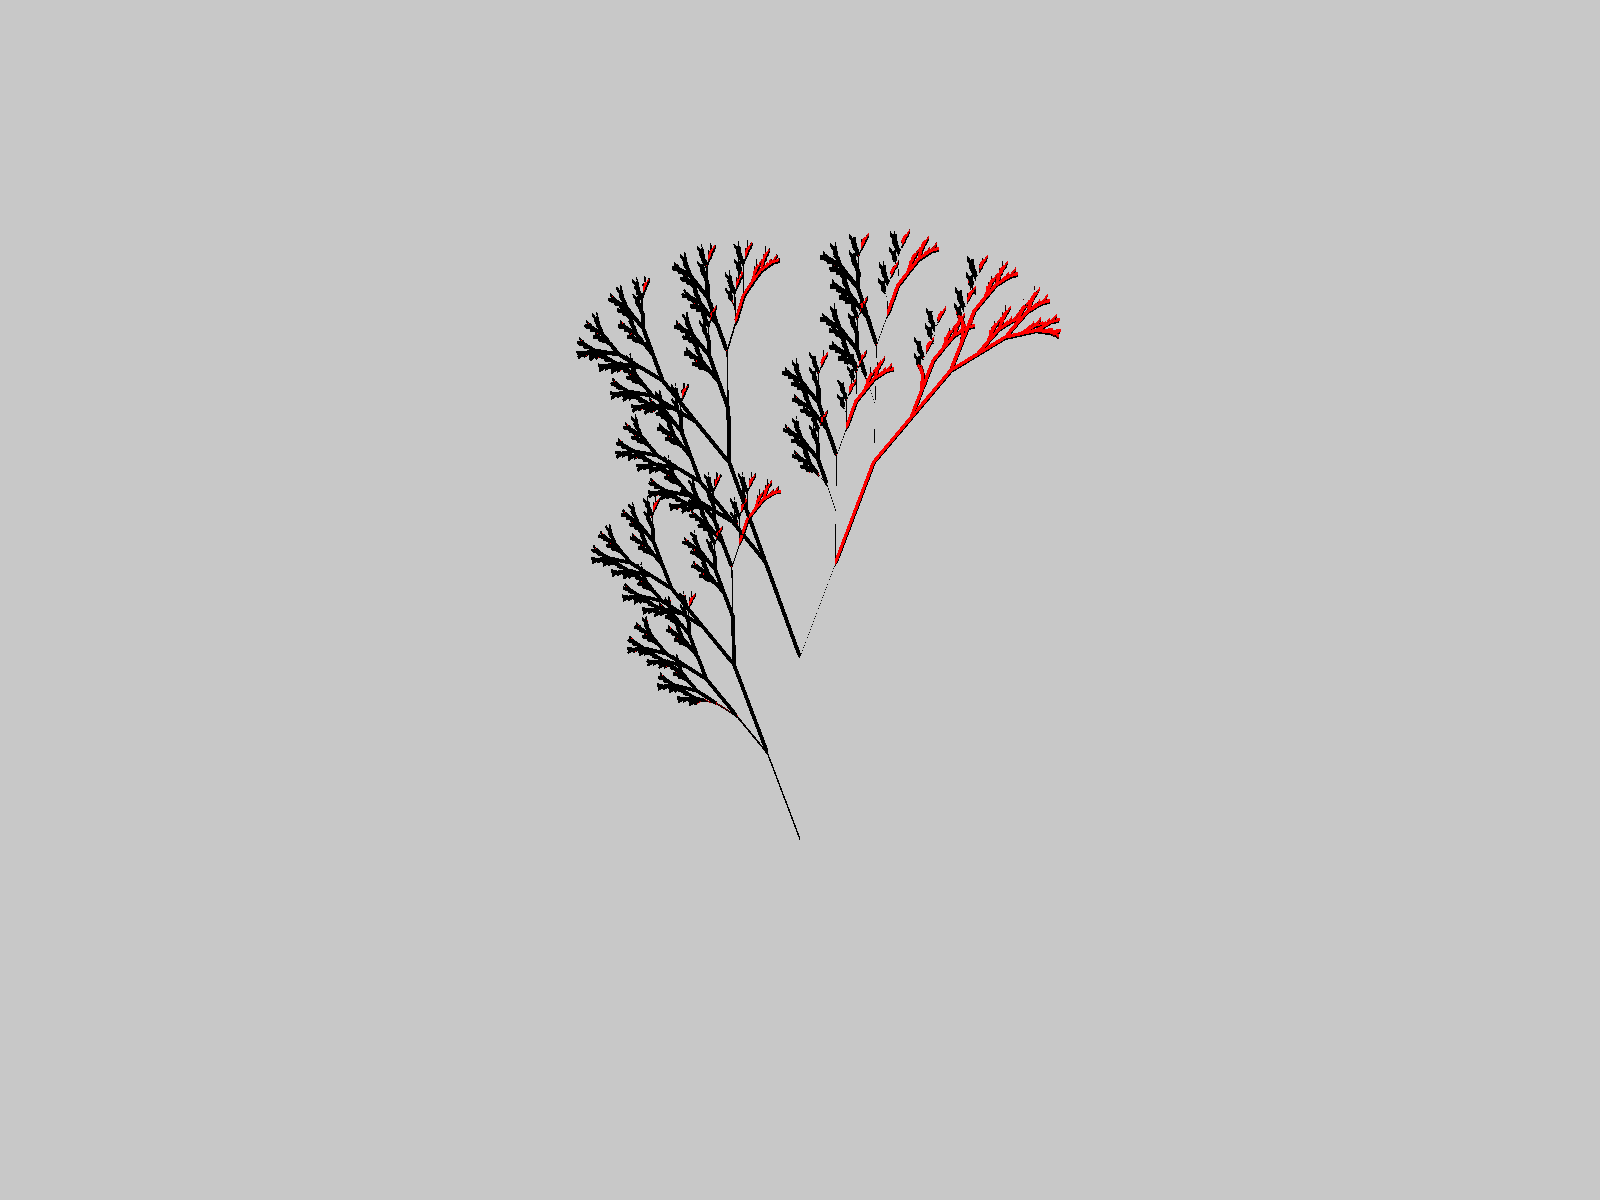
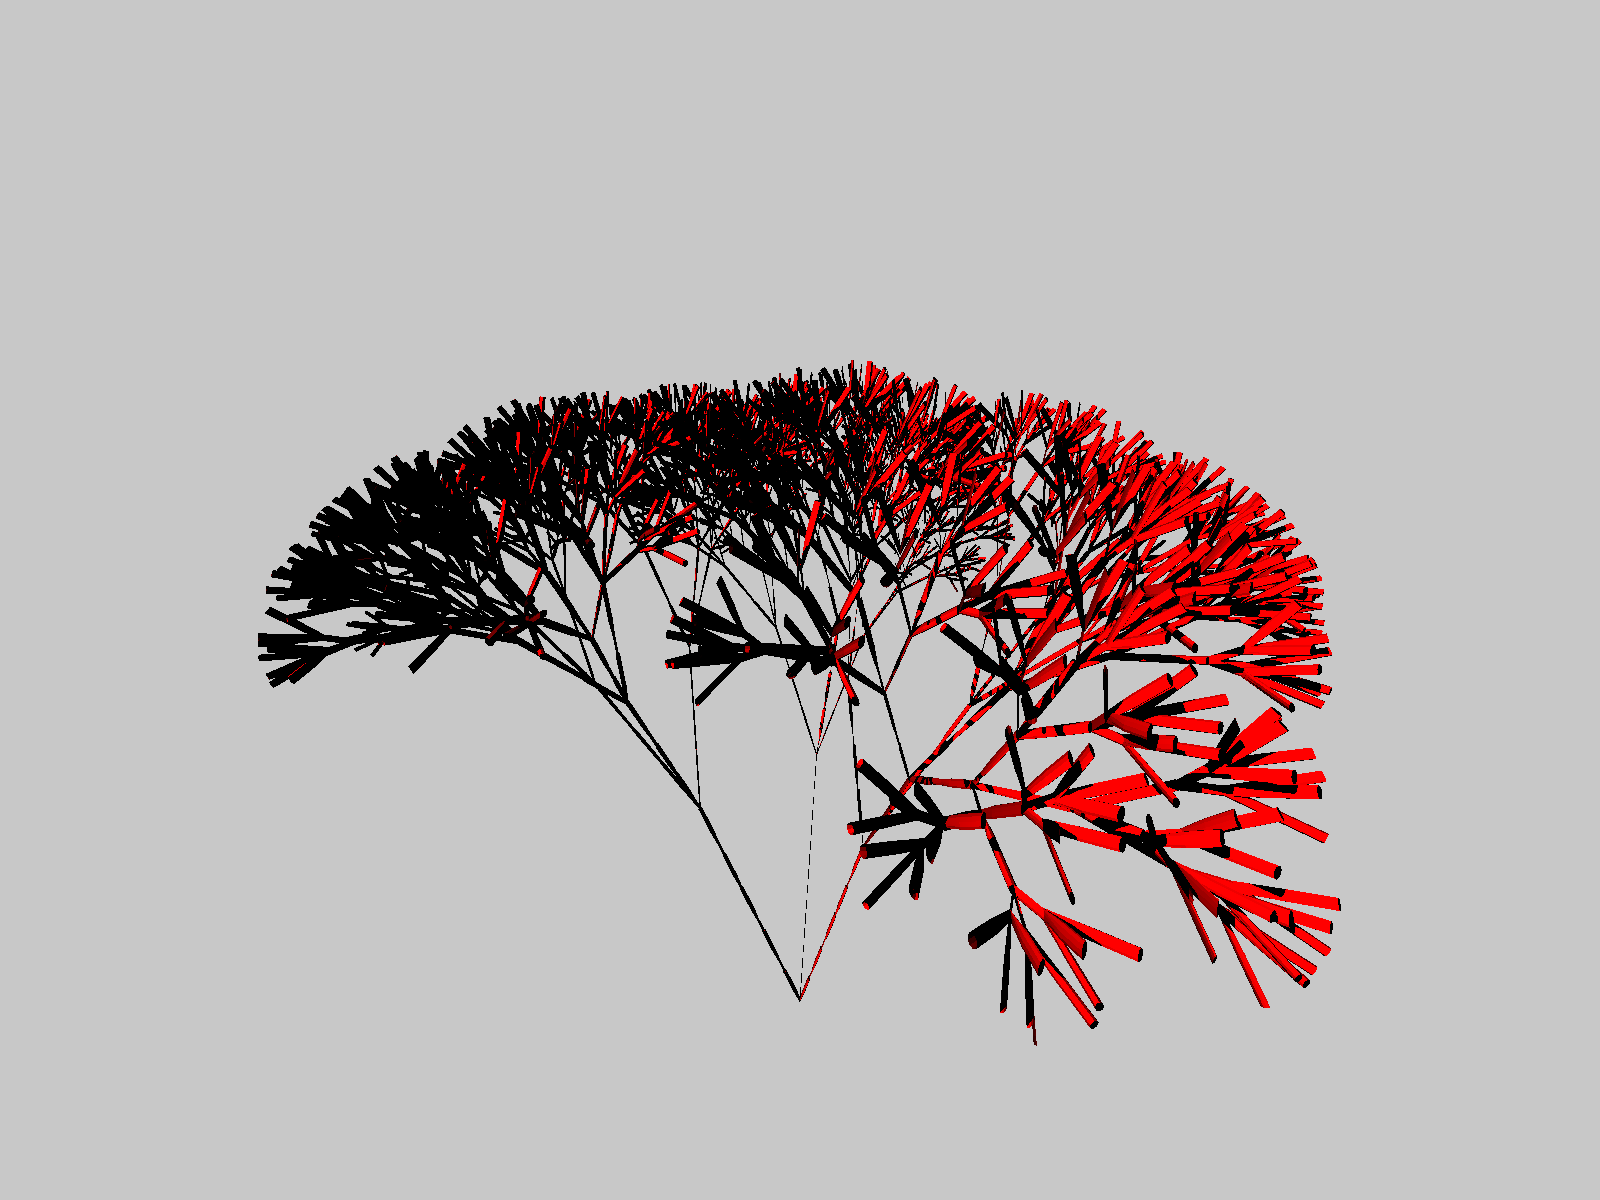
start at 3D Lsystem plants

Changed region(s): [[0.1562, 0.185, 0.8438, 0.8633], [0.4062, 0.6167, 0.4375, 0.6783]]

diff --git a/main.go b/main.go
@@ -13,6 +13,7 @@ var (
 	width      uint = 1600
 	height     uint = 1200
 	numWorkers      = 10
+	numSamples      = 10
 
 	ex = m.Vector{1, 0, 0}
 	ey = m.Vector{0, 1, 0}
@@ -20,7 +21,7 @@ var (
 )
 
 func main() {
-	//fmt.Println("Creating scene...")
+	fmt.Println("Creating scene...")
 	camera := m.NewPerspectiveCamera(width, height, 0.5*math.Pi)
 	scene := m.NewScene(camera)
 
@@ -41,7 +42,8 @@ func main() {
 	// points := gen.PeanoCurve(1)
 	// points := gen.HilbertCurve3D(3)
 	//segments := [][]m.Vector{points}
-	segments := gen.Branch2D_d(7)
+	//segments := gen.Branch2D_d(7)
+	segments := gen.Branch3D(7)
 	objects := []m.Object{}
 	for _, points := range segments {
 		if len(points) == 1 {
@@ -59,20 +61,18 @@ func main() {
 	//fmt.Println(SaveObj(complex))
 
 	//points := gen.CenterPointsOnOrigin(s)
-
 	scene.Precompute()
-
-	//fmt.Println("Rendering...")
 
 	from, to := m.Vector{0, 2, 0}, m.Vector{0, 0, 10}
 	camera.LookAt(from, to, ey)
 	params := render.Params{
 		Scene:        scene,
 		NumWorkers:   numWorkers,
-		NumSamples:   10,
+		NumSamples:   numSamples,
 		AntiAliasing: true,
 		TracerType:   m.WhittedStyle,
 	}
+	fmt.Println("Rendering...")
 	film := render.Render(params)
 	film.SaveAsPNG("out.png")
 }

diff --git a/gen/lindenmayer.go b/gen/lindenmayer.go
@@ -202,3 +202,21 @@ func Branch2D_d(n int) [][]m.Vector {
 	}
 	return l.Evaluate(n, 5.0, 0.4, (20.0/360.0)*(2.0*math.Pi))
 }
+
+// branching 3D
+// not yet respecting the following operators:
+// ! means decrement the diameter of segment
+// ' means increment the index on color table (?)
+// {} denotes boundary of leaf drawing (to be handled separately)
+func Branch3D(n int) [][]m.Vector {
+	l := Lsystem{
+		Axiom: "A",
+		Productions: map[rune]string{
+			'A': "[&FL!A]/////'[&FL!A]/////'[&FL!A]",
+			'F': "S/////F",
+			'S': "FL",
+			'L': "['''^^{-f+f+f-|-f+f+f}]",
+		},
+	}
+	return l.Evaluate(n, 5.0, 0.5, (22.5/360.0)*(2.0*math.Pi))
+}
